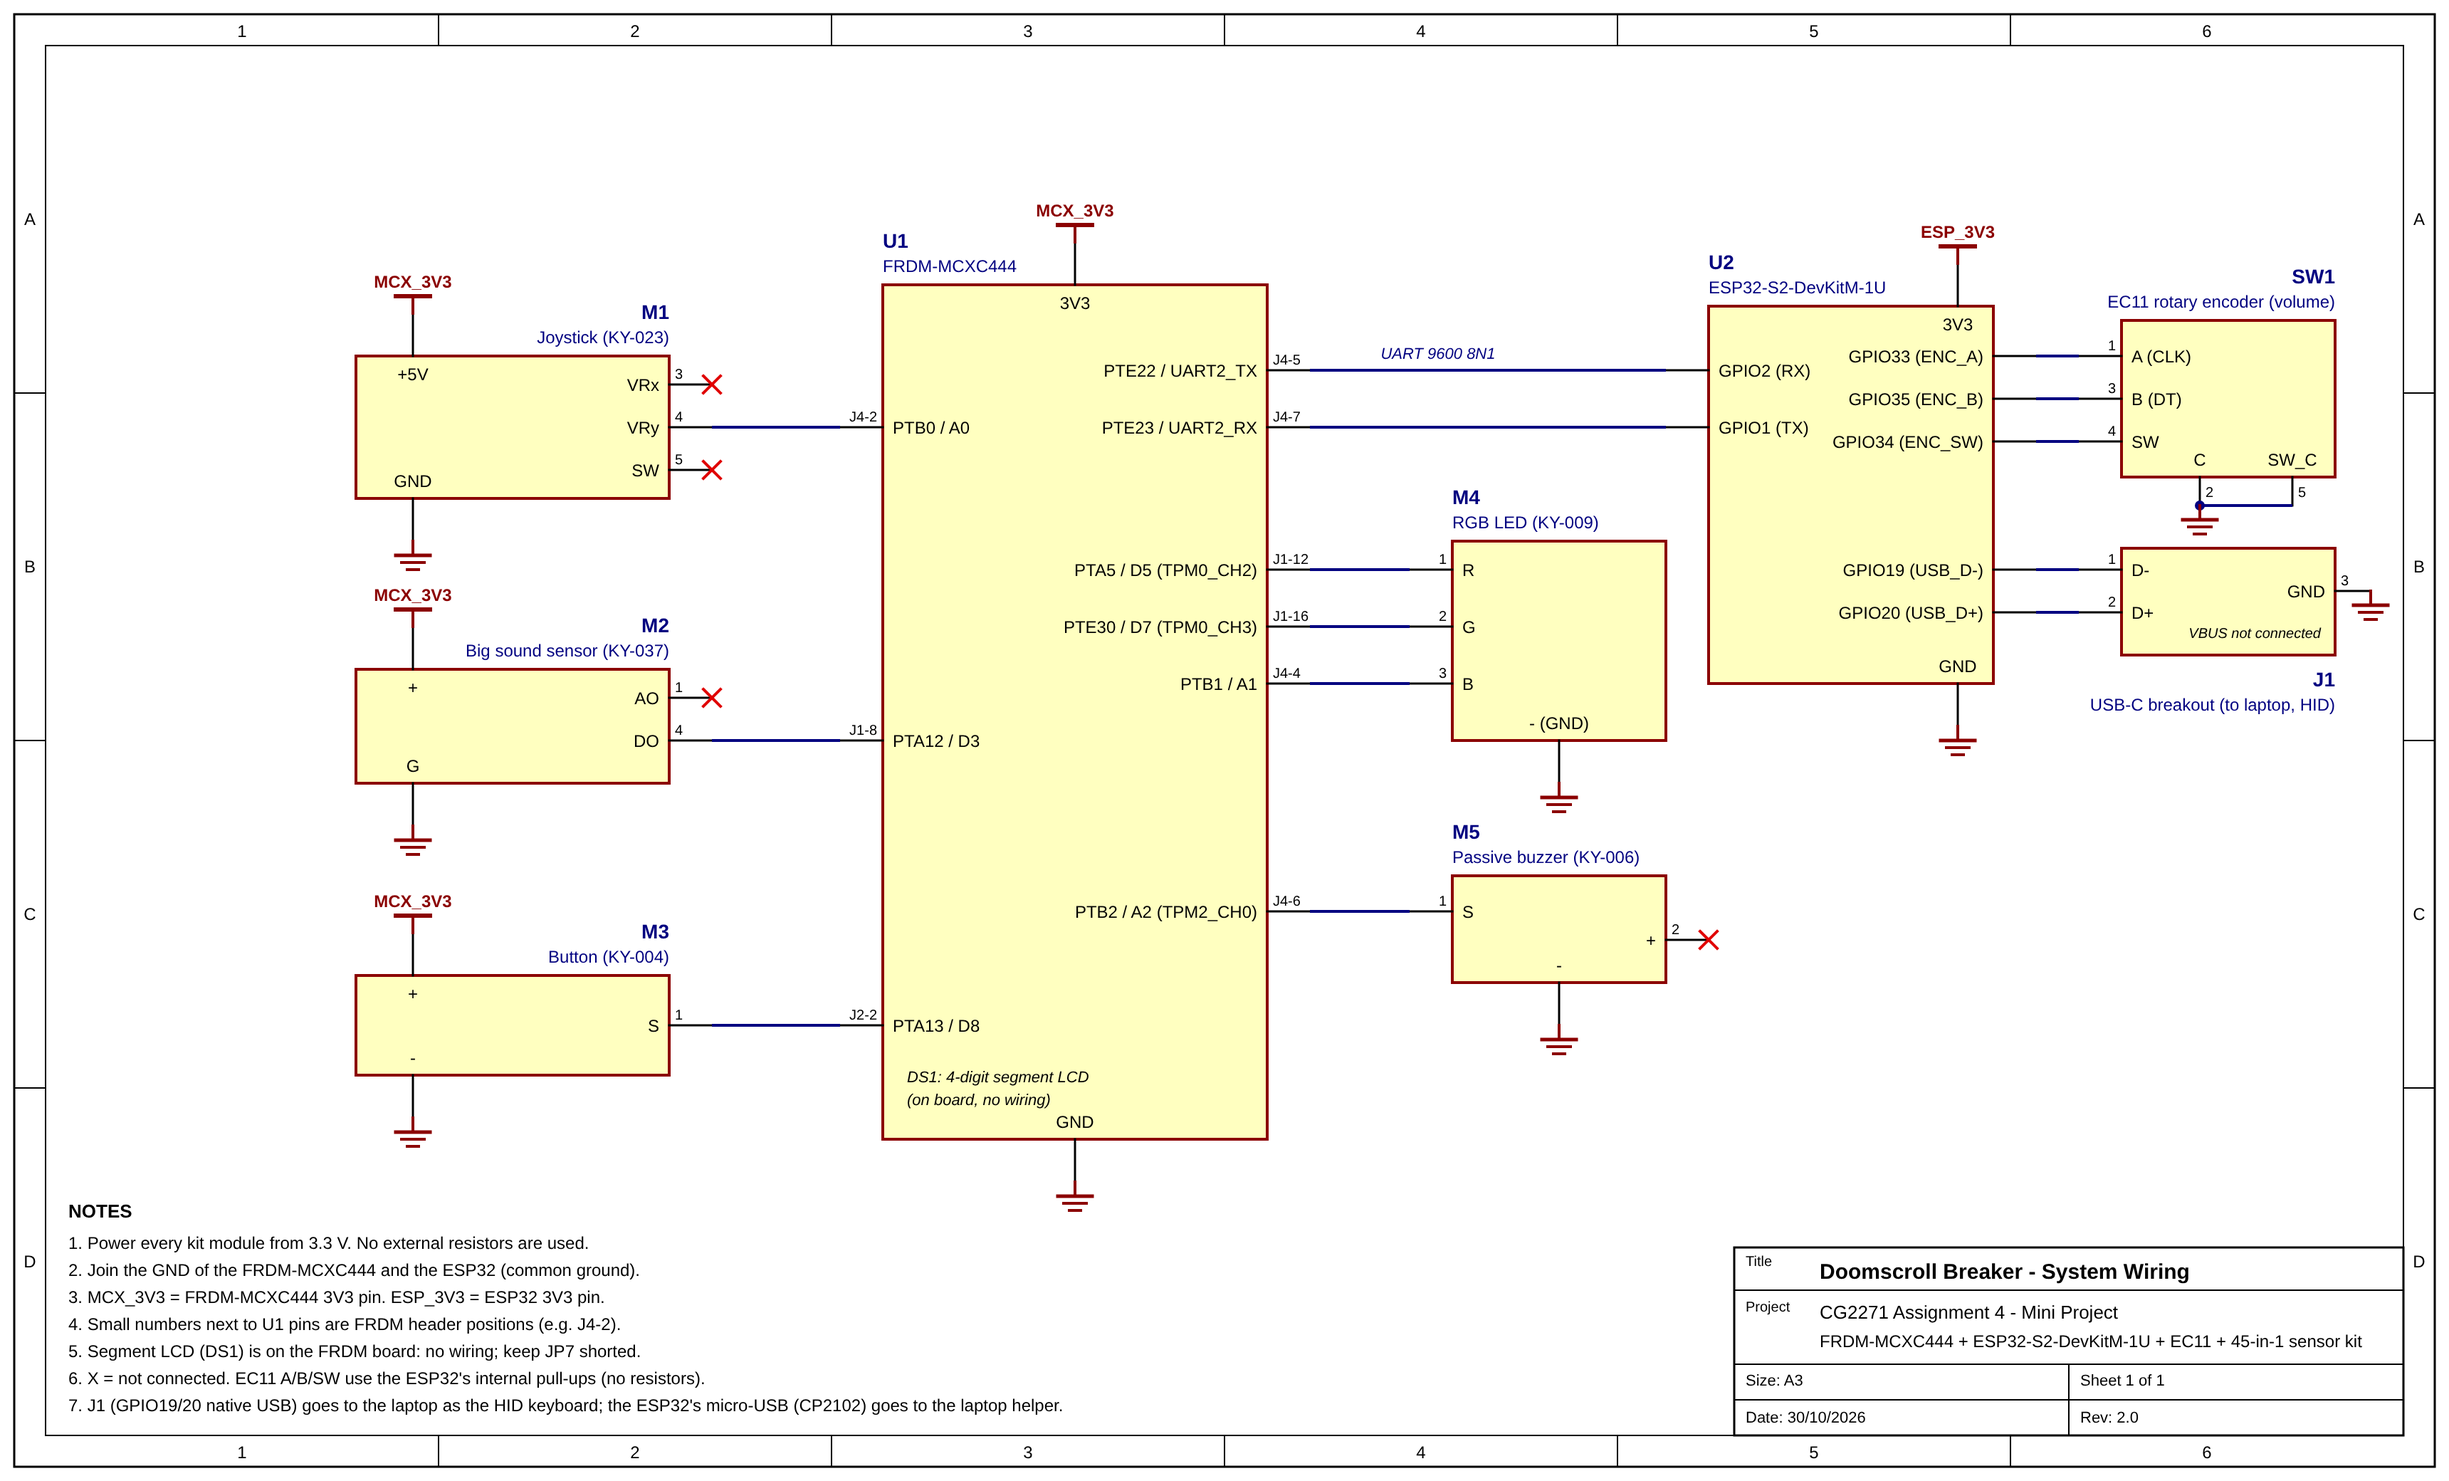
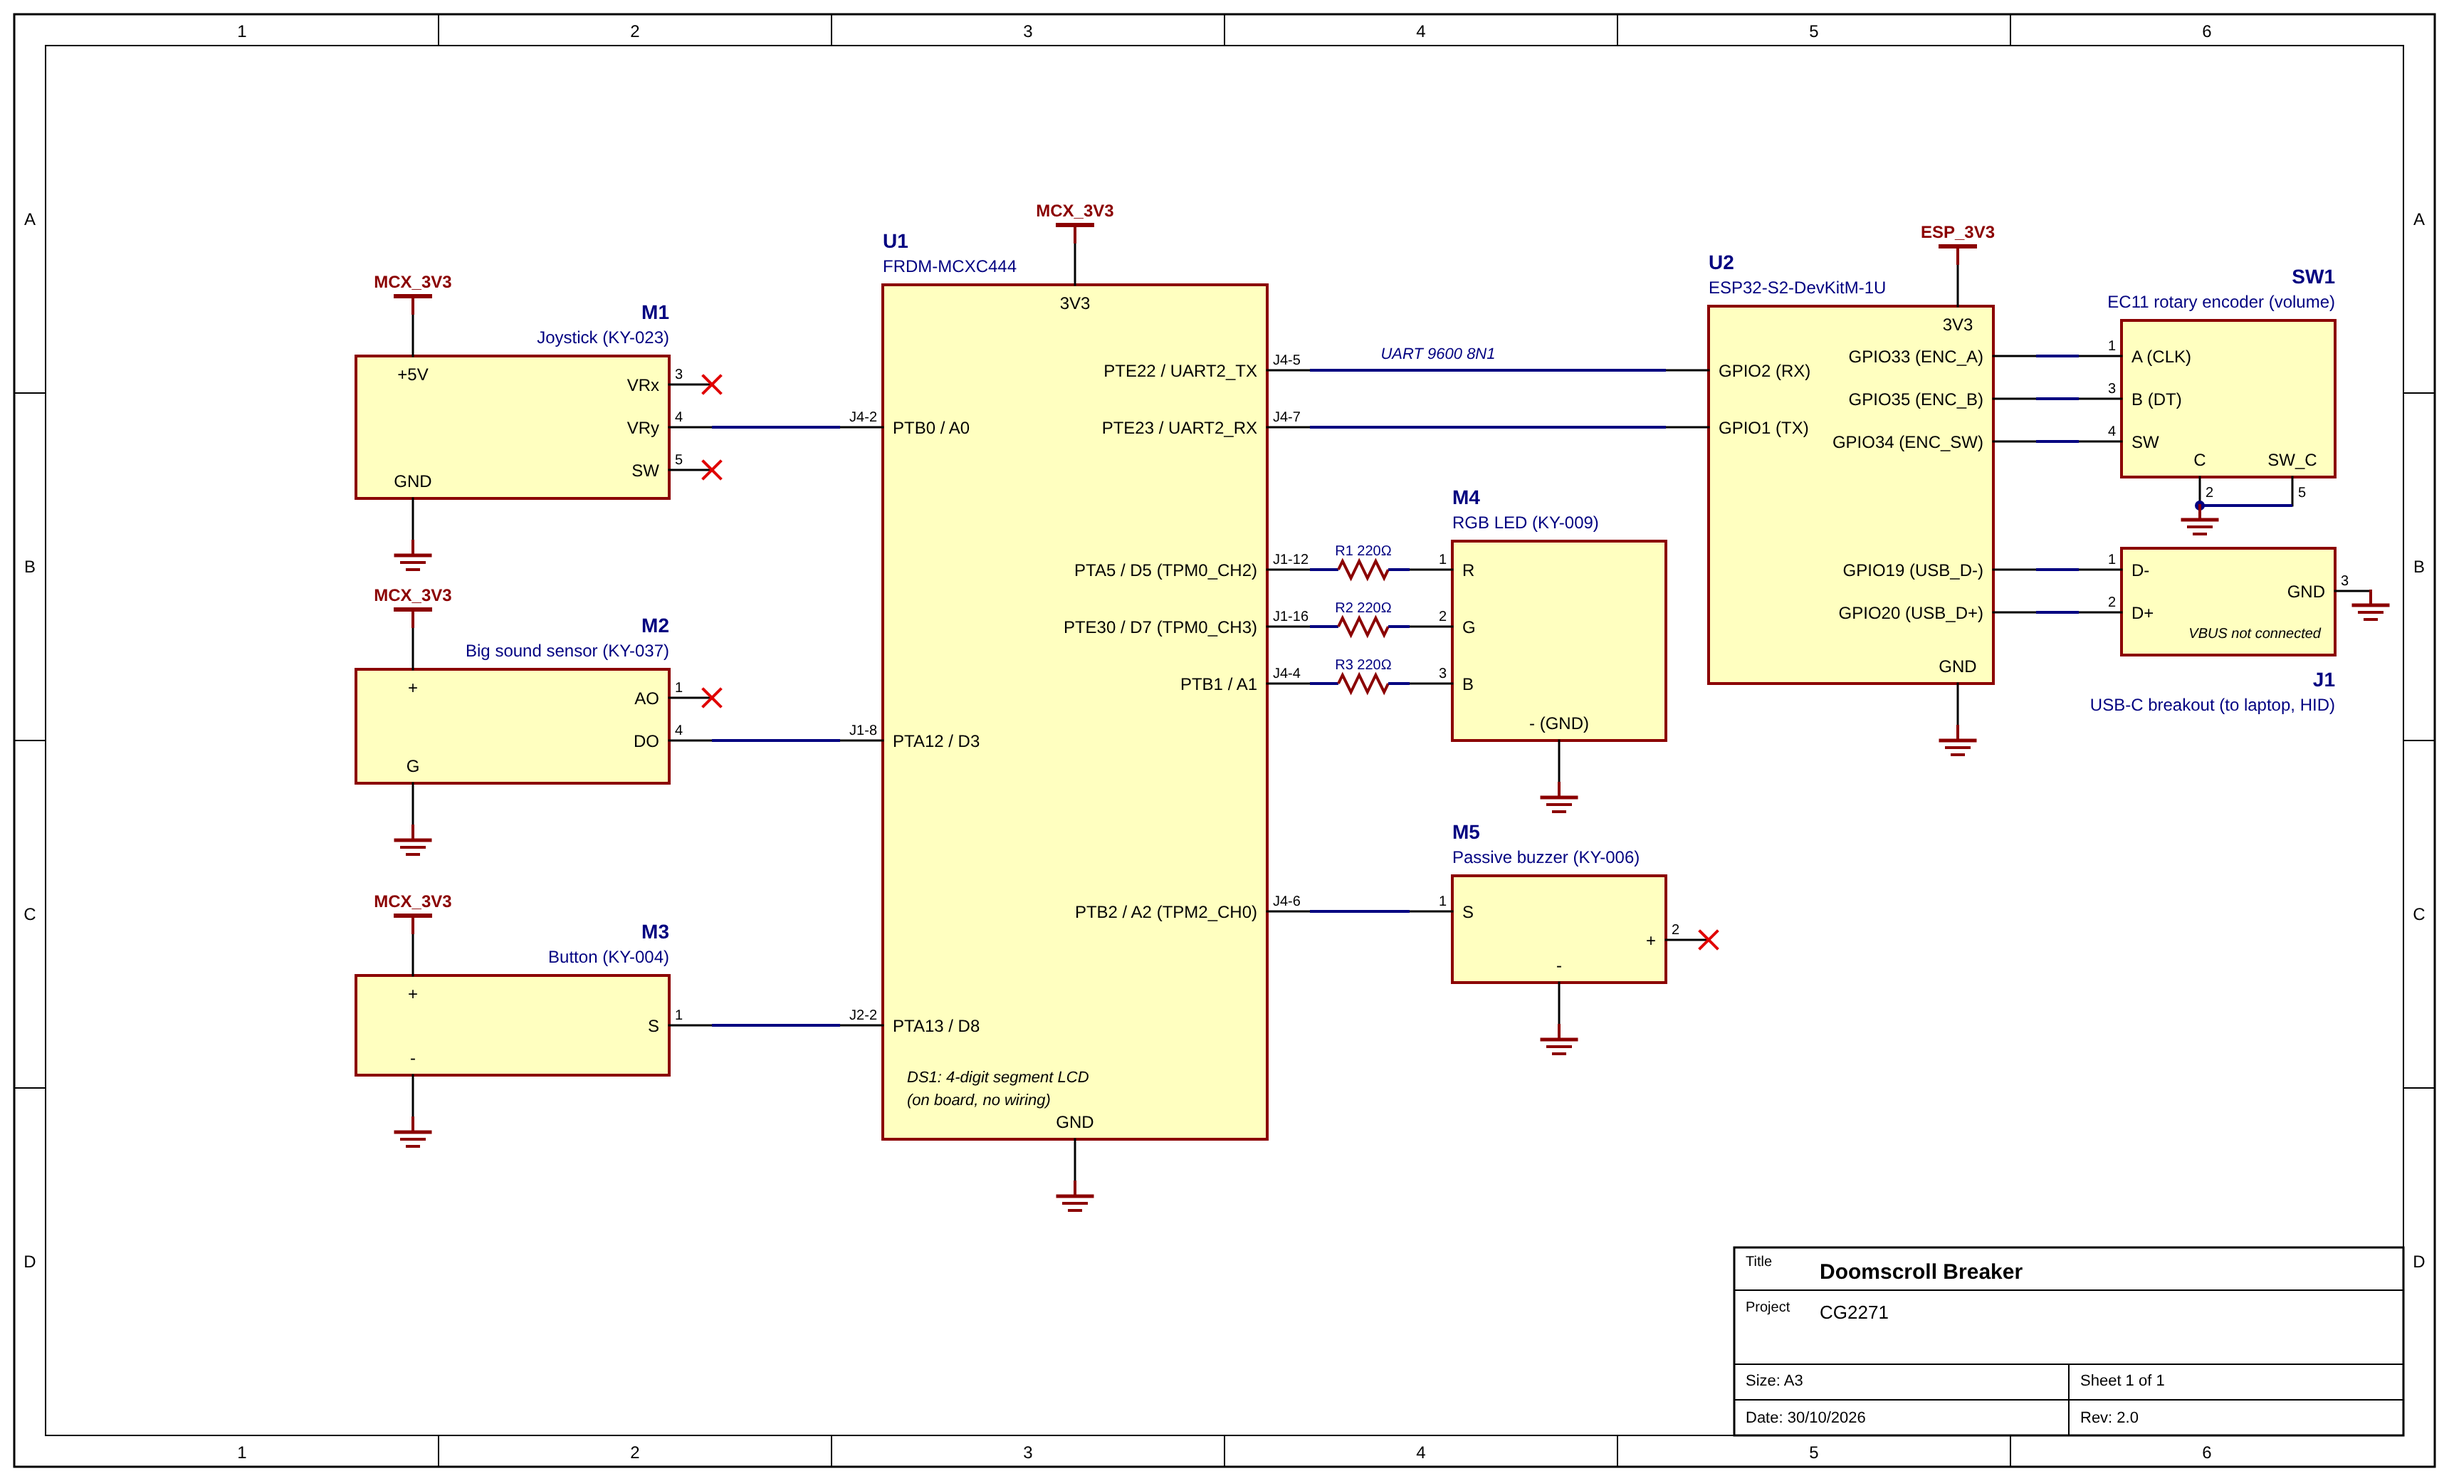
Schematic: 220 ohm LED resistors, drop notes, shorter title block
- R1-R3 220 ohm in series between U1 and the RGB LED's R, G, B
- notes removed; title "Doomscroll Breaker", project "CG2271"
- SVG source committed alongside the PNG
- README wiring table lists the resistors (and the B channel)

Claude-Session: https://claude.ai/code/session_01CbPK4z57ZN4e2hKZrAET3k

diff --git a/README.md b/README.md
@@ -49,7 +49,7 @@ Power every kit module from **3.3 V**. Join GND between the boards; keep the two
 | Joystick (one axis) | VRy | PTB0 | A0 |
 | Sound sensor | DO | PTA12 | D3 |
 | Button | S | PTA13 | D8 |
-| RGB LED | R / G | PTA5 / PTE30 | D5 / D7 |
+| RGB LED, each via 220 Ω (R1–R3) | R / G / B | PTA5 / PTE30 / PTB1 | D5 / D7 / A1 |
 | Passive buzzer | S | PTB2 | A2 |
 | ESP32 link | TX → ESP32 RX / RX ← ESP32 TX | PTE22 / PTE23 | - |
 | Segment LCD | on board (leave JP7 shorted) | - | - |
